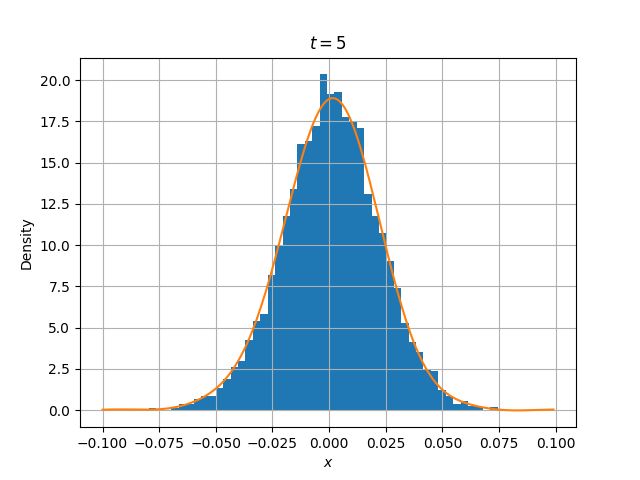
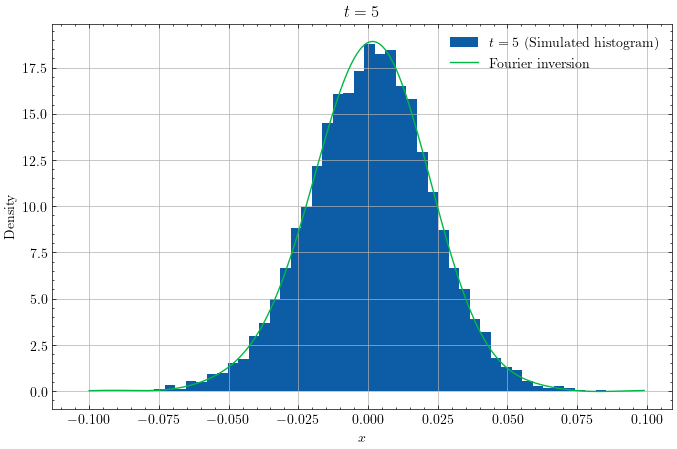
[CLEAN] adding standard files

diff --git a/bgig_distribution/density.py b/bgig_distribution/density.py
@@ -1,10 +1,13 @@
-import numpy as np
 import matplotlib.pyplot as plt
+import numpy as np
+import scienceplots
 import scipy
 import tqdm
 
 from bgig_distribution.filter import Filter
 from bgig_distribution.gigrn import gigrnd
+
+plt.style.use("science")
 
 
 class Density:
@@ -72,7 +75,8 @@ class Density:
         for x in tqdm.tqdm(x_array):
             u = np.arange(-150, 150, 0.01)
             step_u = np.mean(np.diff(u))
-            value_x = (np.exp(-1j * u * x) * self.chf_bgig(u, ndays)).sum() * step_u
+            value_x = (np.exp(-1j * u * x) *
+                       self.chf_bgig(u, ndays)).sum() * step_u
             dens.append(value_x)
         print("Computed!")
         return np.real(dens) / (2 * np.pi)
@@ -86,6 +90,7 @@ class Density:
         dens_bgig_cal = self.dens_bgig(x)
         # Plotting the calibrated density
         # plt.style.use(["science", "ieee"])
+        plt.figure(figsize=(8, 5))
         plt.xlim(-0.1, 0.1)
         plt.plot(x, dens_bgig_cal, label="Calibrated \n BGIG")
         plt.hist(
@@ -129,10 +134,14 @@ class Density:
         x = np.arange(-0.1, 0.1, 1e-3)
         dens_fourier = self.get_dens_fourier(x, ndays)
         values = self.simulate_trajectories(ndays, Nsim)
-        plt.hist(values, density=True, bins=50, label=rf"$t={ndays}$")
-        plt.plot(x, np.real(dens_fourier), linestyle="-")
+        plt.figure(figsize=(8, 5))
+        plt.hist(values, density=True, bins=50,
+                 label=rf"$t={ndays}$ (Simulated histogram)")
+        plt.plot(x, np.real(dens_fourier), linestyle="-",
+                 label="Fourier inversion")
         plt.title(rf"$t={ndays}$")
         plt.ylabel("Density")
         plt.xlabel(r"$x$")
+        plt.legend()
         plt.grid()
         plt.savefig(f"output/process_simul_t_{ndays}")

diff --git a/README.md b/README.md
@@ -1,4 +1,4 @@
-# Bilateral Generalized Inverse Gaussian distribution
+# The bilateral generalized inverse Gaussian process with applications to financial modeling
 
 [![Python badge](https://img.shields.io/badge/Python-3.11.11-0066cc?style=for-the-badge&logo=python&logoColor=yellow)](https://www.python.org/downloads/release/python-31111/)
 [![Pylint badge](https://img.shields.io/badge/Linting-pylint-brightgreen?style=for-the-badge)](https://pylint.pycqa.org/en/latest/)
